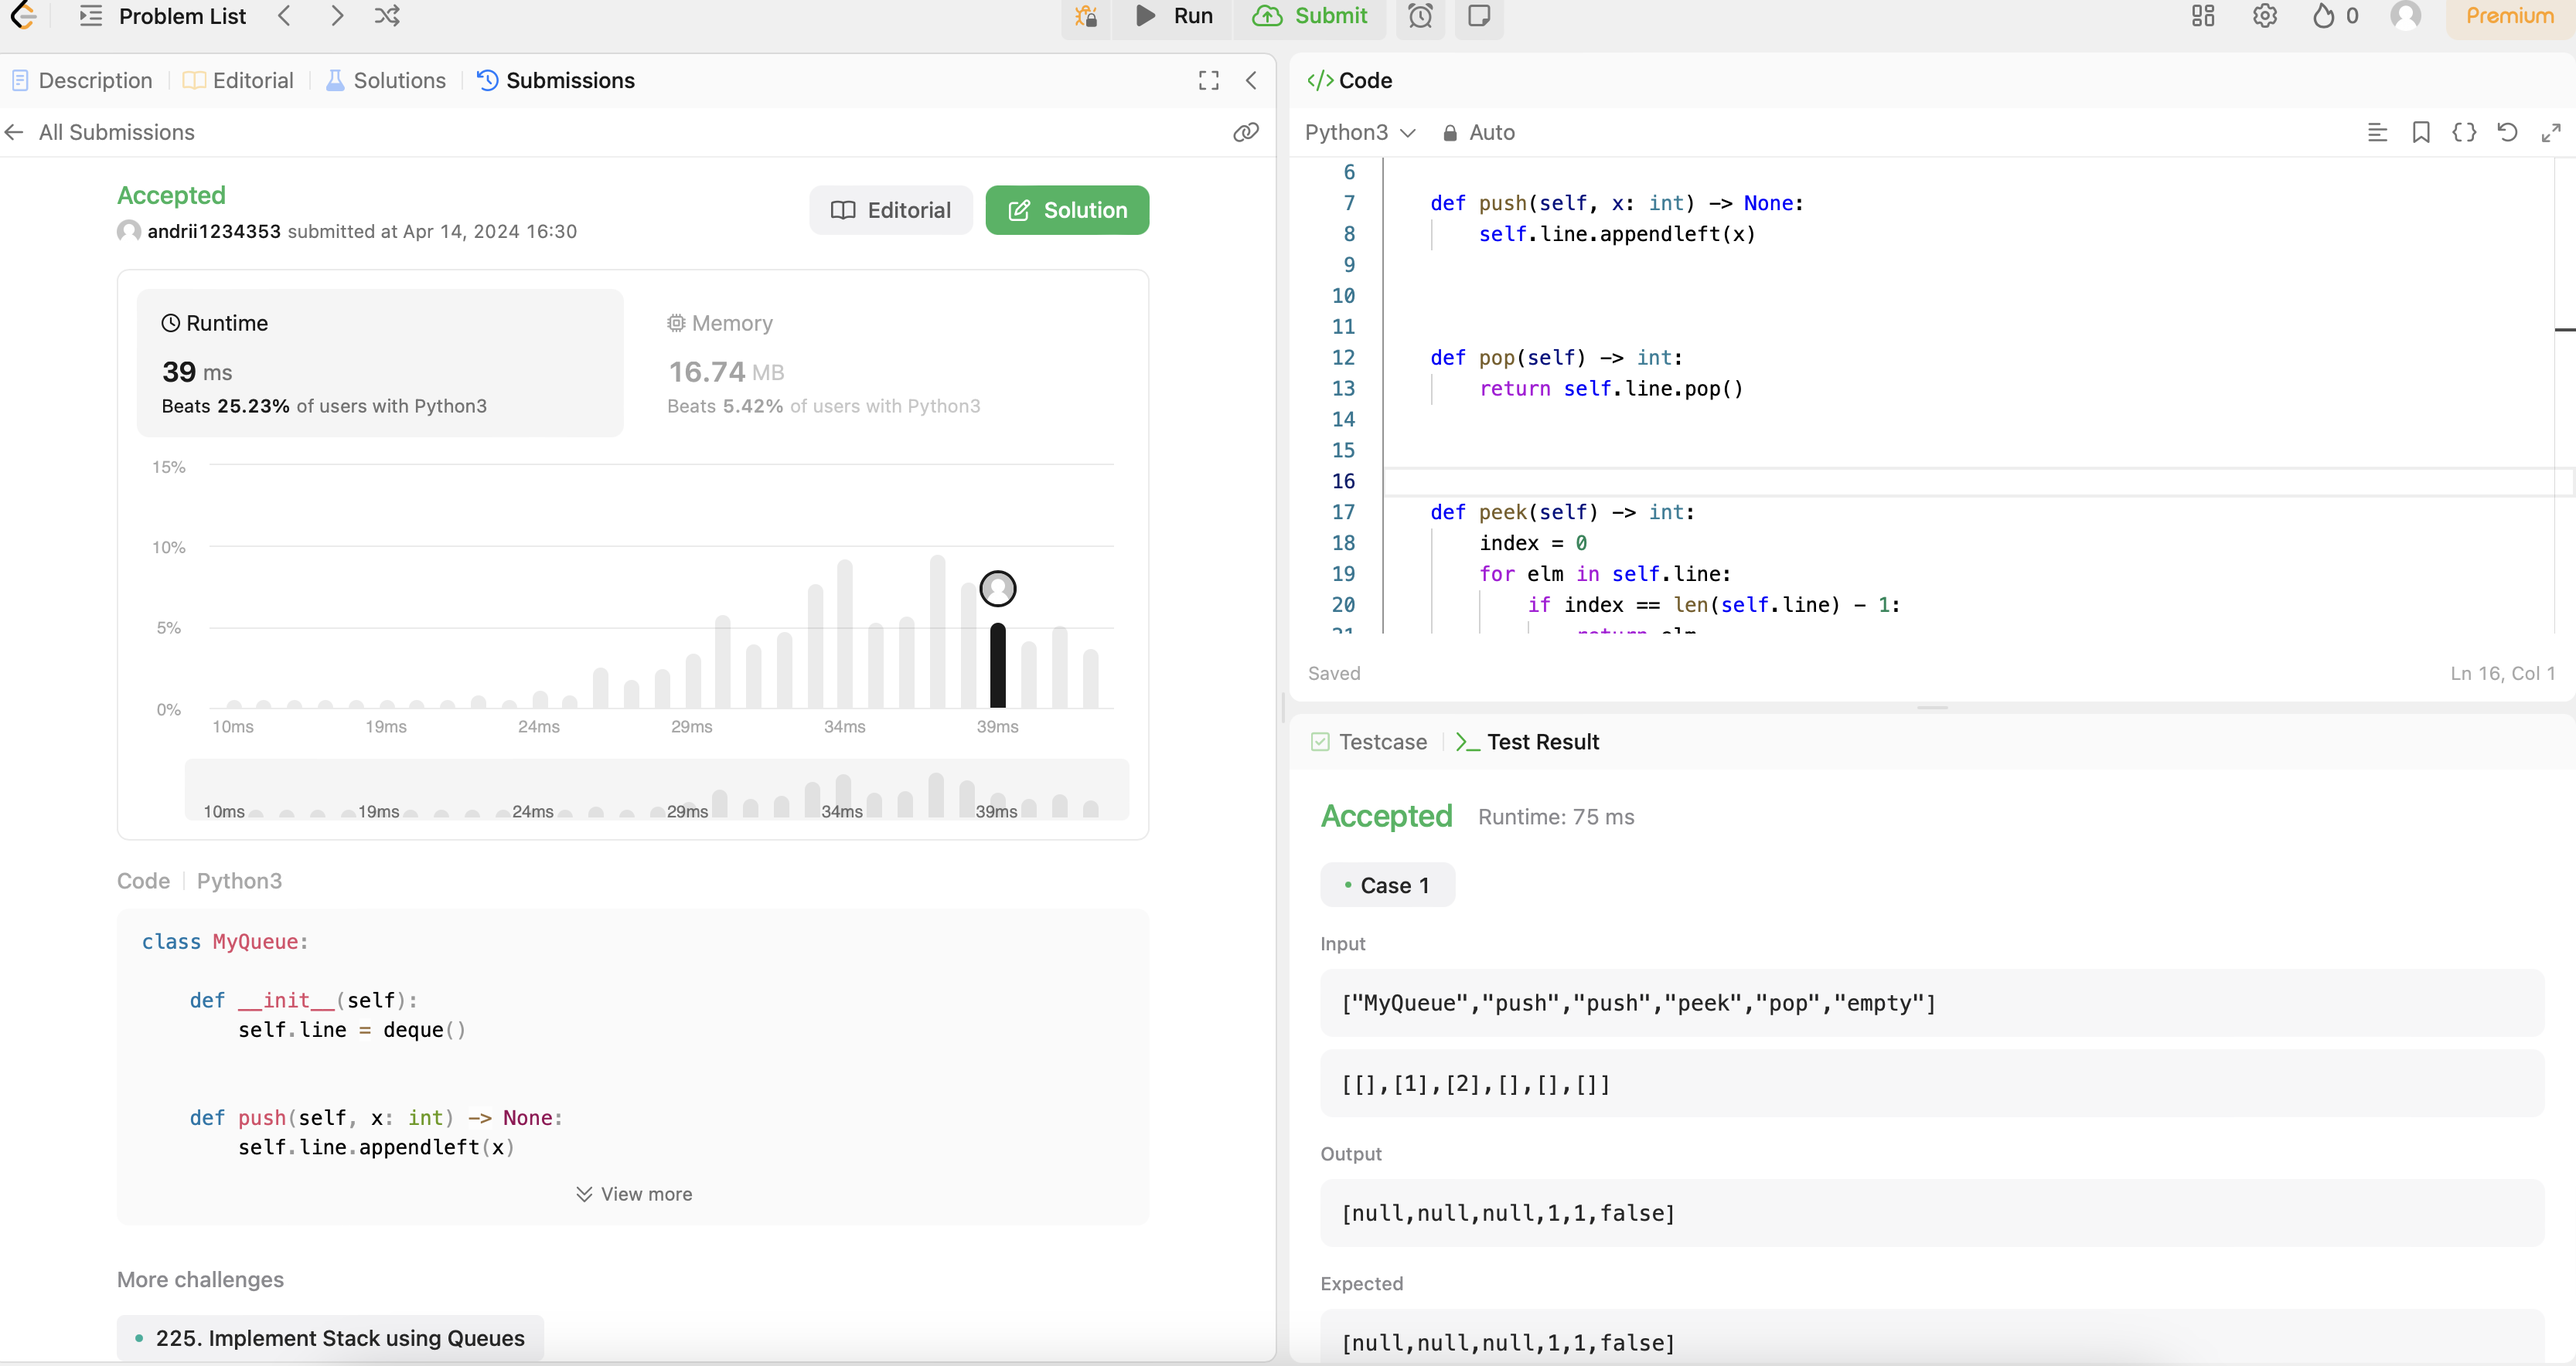
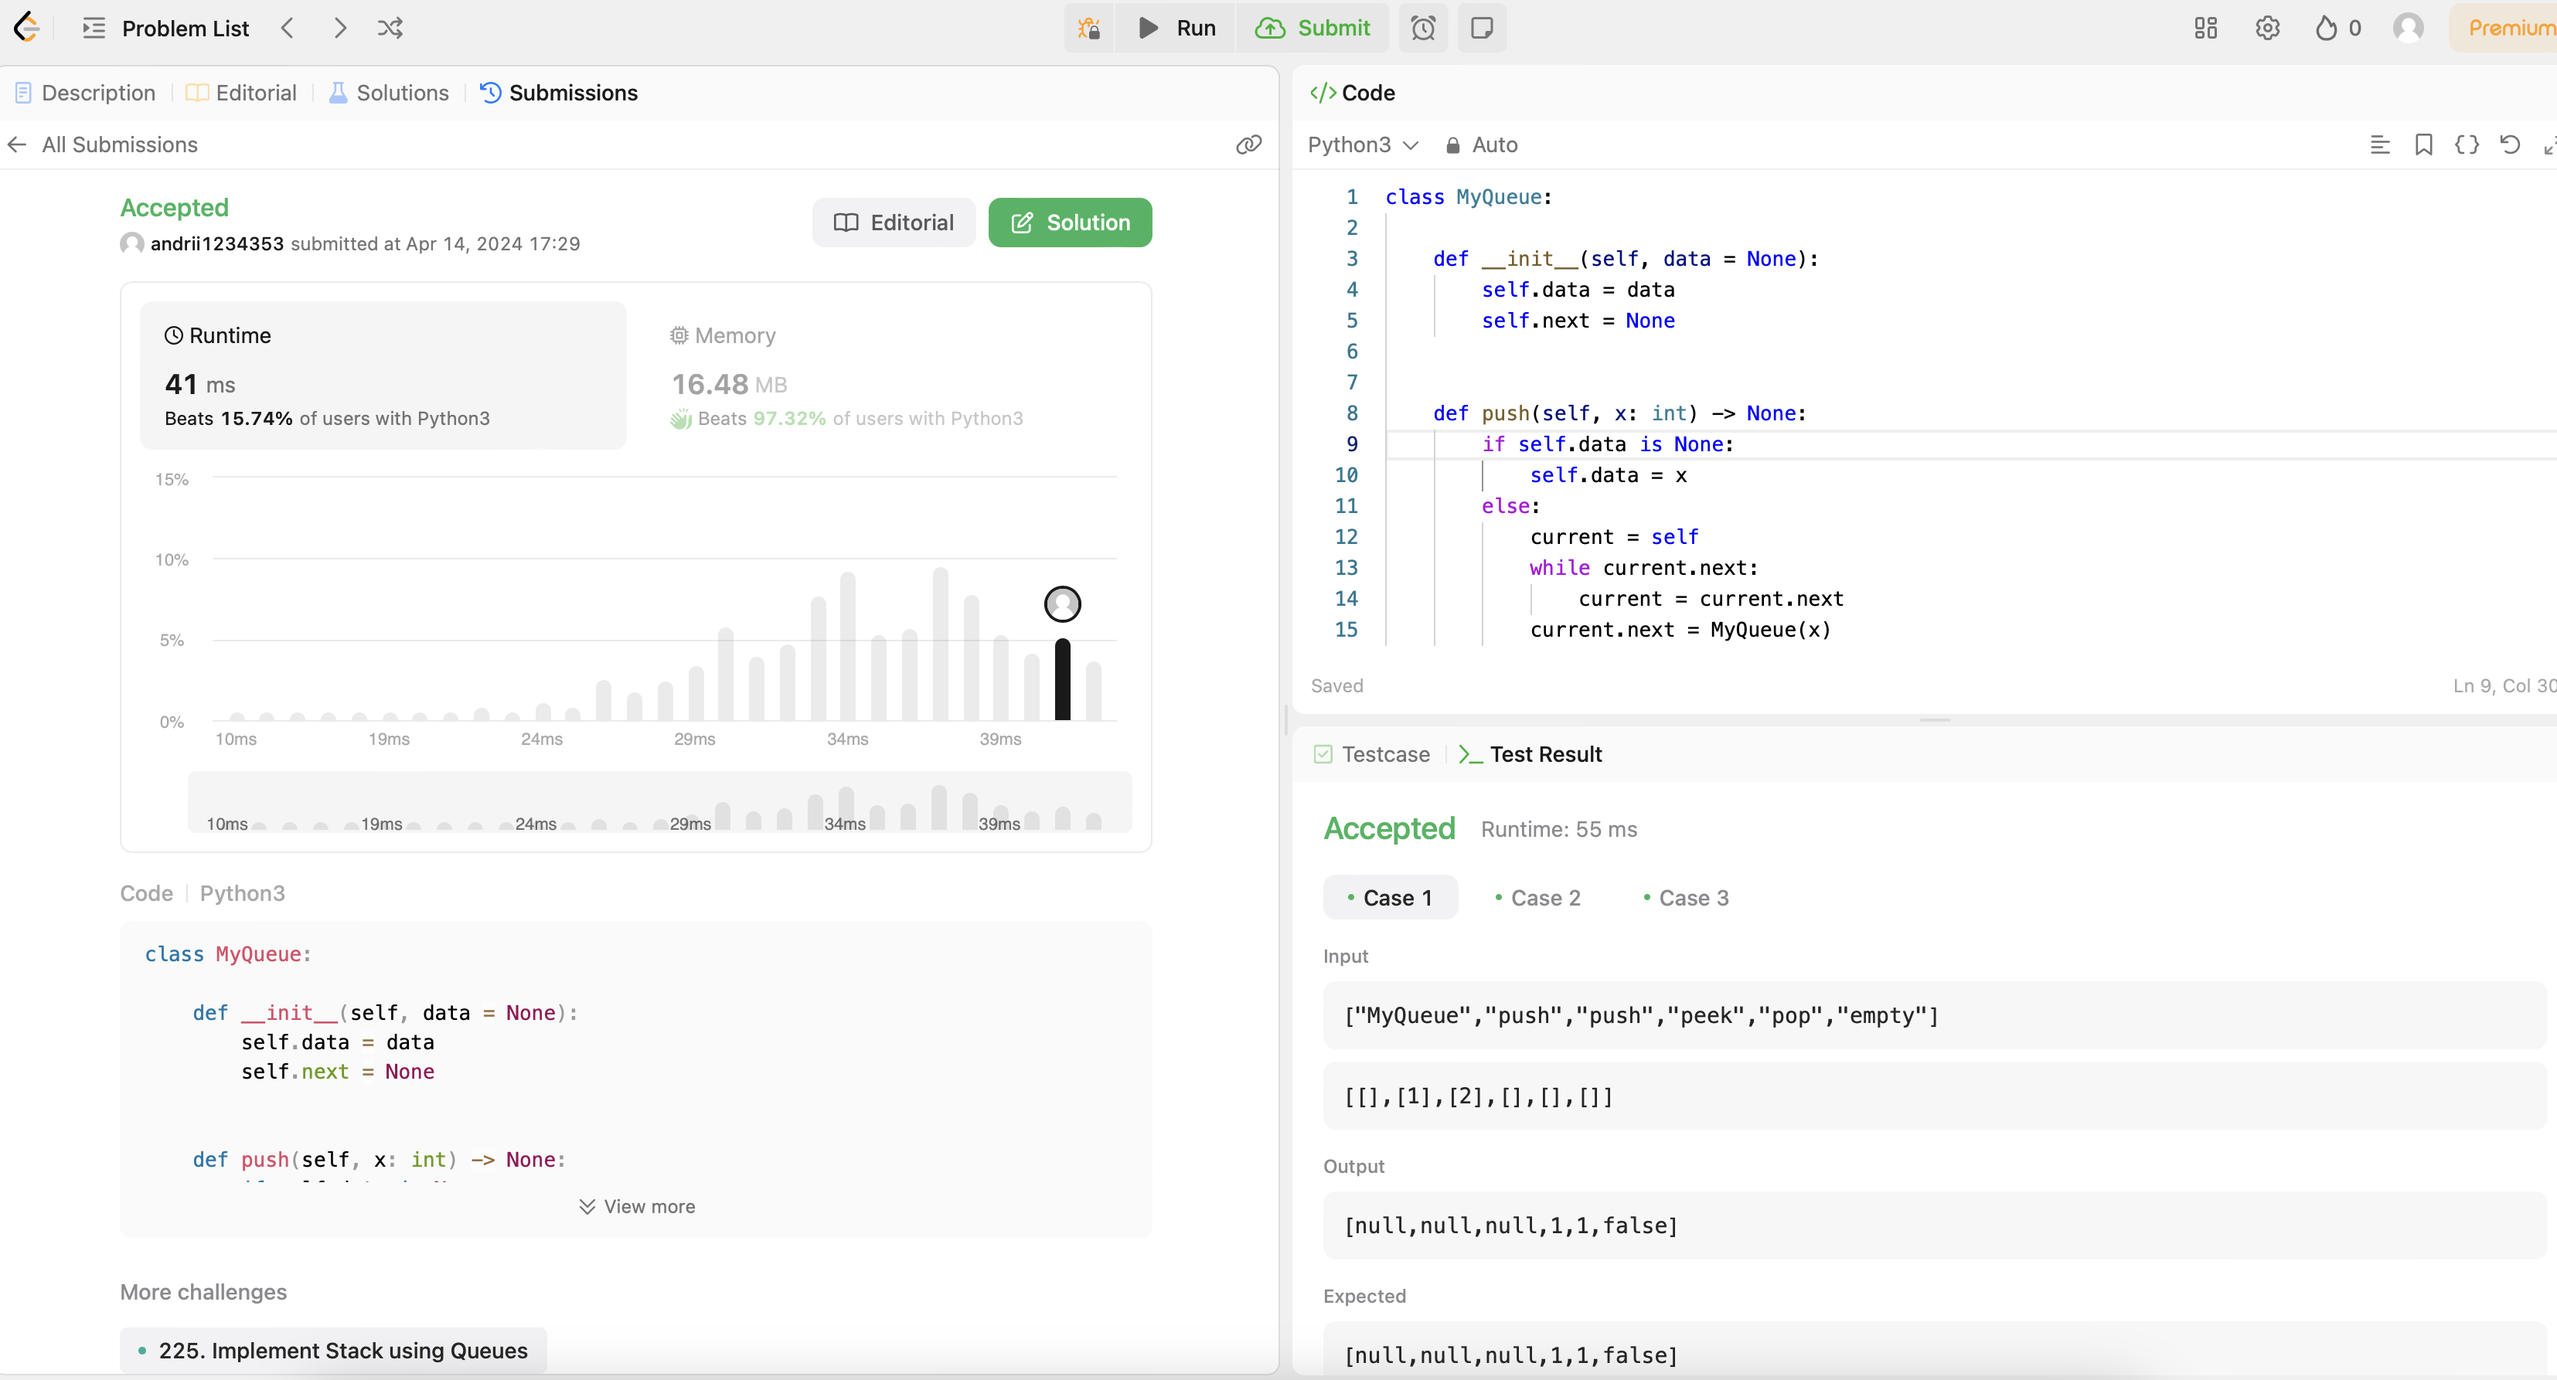
Recompleted task 1 - no deque

diff --git a/Implement Queue using Stacks/task.py b/Implement Queue using Stacks/task.py
@@ -1,28 +1,38 @@
-from collections import deque
-
 class MyQueue:
 
-    def __init__(self):
-        self.line = deque()
+    def __init__(self, data = None):
+        self.data = data
+        self.next = None
 
     def push(self, x: int) -> None:
-        self.line.appendleft(x)
+        if self.data is None:
+            self.data = x
+        else:
+            current = self
+            while current.next:
+                current = current.next
+            current.next = MyQueue(x)
+
 
 
     def pop(self) -> int:
-        return self.line.pop()
+        desired = self.data
+        new_head = self.next
+        if new_head is None:
+            self.data = None
+            self.next = None
+        else:
+            self.data = new_head.data
+            self.next = new_head.next
+        return desired
 
 
     def peek(self) -> int:
-        index = 0
-        for elm in self.line:
-            if index == len(self.line) - 1:
-                return elm
-            index += 1
+        return self.data
 
 
     def empty(self) -> bool:
-        if not self.line:
+        if self.data is None:
             return True
         return False
 
